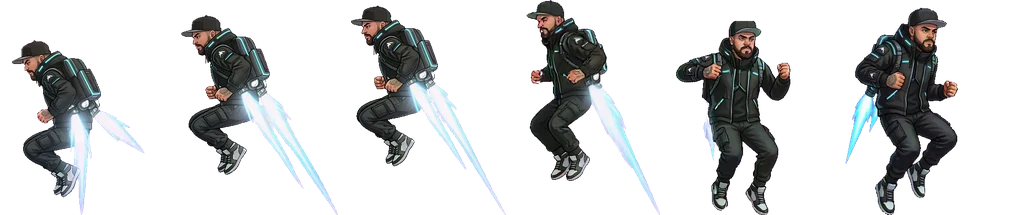
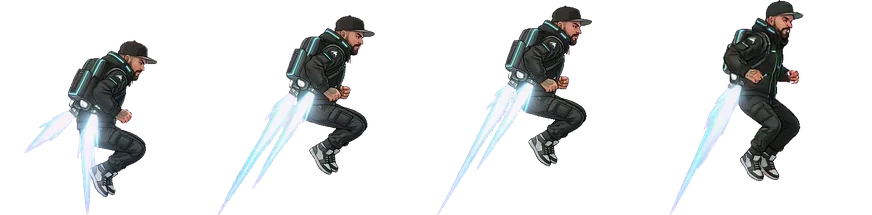
feat(hero): bring Montanha's animation and glow on par with Gle
- Fix Montanha facing backwards while jumping (jump sheet mirrored, front-facing frames dropped)
- Pick jump frames by state: rising/falling vs hovering with the jet
- Drive the run cycle by distance travelled and skip duplicated frames, so feet stop sliding
- Add a per-hero energy aura (cyan for Montanha, gold for Gle) that grows while charging or hovering
- Per-hero hover trail: cyan jet from Montanha's backpack, gold sparks from Gle's boots

Claude-Session: https://claude.ai/code/session_01GkUwF4uJAcf5BhsbBZ6wSV

diff --git a/js/render.js b/js/render.js
@@ -443,21 +443,44 @@ function heroPose(p) {
 }
 
 // Quadro da animação conforme a ação: corrida e respiração em loop, tiro acompanha o recuo.
-const ANIM_FPS = { run: 14, idle: 8, jump: 10 };
+const ANIM_FPS = { idle: 8, air: 10, hover: 16 };
 const SHOOT_FIRST = 2;
+// A corrida avança pela distância percorrida (p.anim), não pelo relógio: os pés não deslizam no chão
+// e a passada acelera junto com o herói.
+const RUN_STEP = 1.15;
+const all = n => Array.from({ length: n }, (_, i) => i);
 function animFrame(a, pose, p) {
   // O tiro nasce com o braço esticado: pula os quadros de preparação (0 e 1) e mostra só a parte do disparo.
   if (pose === 'shoot') return SHOOT_FIRST + Math.min(a.frames - SHOOT_FIRST - 1, Math.floor(((14 - p.shootAnim) / 14) * (a.frames - SHOOT_FIRST)));
-  return Math.floor((world.frame * ANIM_FPS[pose]) / 60) % a.frames;
+  const pick = HEROES[p.hero].frames;
+  if (pose === 'run') { const seq = pick.run || all(a.frames); return seq[Math.floor(p.anim * RUN_STEP) % seq.length]; }
+  if (pose === 'jump') {
+    const mode = p.hovering ? 'hover' : 'air', seq = pick[mode] || all(a.frames);
+    return seq[Math.floor((world.frame * ANIM_FPS[mode]) / 60) % seq.length];
+  }
+  return Math.floor((world.frame * ANIM_FPS.idle) / 60) % a.frames;
+}
+
+// Aura de energia do herói: um contorno suave na cor dele, que pulsa e cresce ao carregar o tiro ou voar.
+function auraFor(p) {
+  const hero = HEROES[p.hero], boost = (p.charge > 20 ? 0.35 : 0) + (p.hovering ? 0.2 : 0);
+  return { color: hero.glow, alpha: Math.min(1, hero.aura * (0.75 + 0.25 * Math.sin(world.frame * 0.08)) + boost) };
 }
 
 // Folha de animação: desenha um quadro com a âncora (centro dos pés) no ponto (cx, bottom).
-function drawAnim(ctx, a, frame, cx, bottom, flip) {
+function drawAnim(ctx, a, frame, cx, bottom, flip, aura) {
   const k = HERO_HEIGHT / (a.ay * 0.97), w = a.w * k, h = a.h * k;
   ctx.save();
   ctx.imageSmoothingEnabled = true;
   ctx.translate(cx, bottom);
   if (flip) ctx.scale(-1, 1);
+  if (aura) {
+    // shadowBlur é em pixels reais: acompanha a escala atual (tela x zoom da câmera).
+    ctx.shadowColor = aura.color; ctx.shadowBlur = 2.6 * Math.abs(ctx.getTransform().a);
+    ctx.globalAlpha = aura.alpha;
+    ctx.drawImage(a.img, frame * a.w, 0, a.w, a.h, -a.ax * k, -a.ay * k, w, h);
+    ctx.shadowBlur = 0; ctx.shadowColor = 'transparent'; ctx.globalAlpha = 1;
+  }
   ctx.drawImage(a.img, frame * a.w, 0, a.w, a.h, -a.ax * k, -a.ay * k, w, h);
   ctx.restore();
 }
@@ -471,7 +494,7 @@ function drawHeroArt(ctx, p, img) {
 
 function drawHero(ctx, p) {
   const prefix = HEROES[p.hero].art, pose = heroPose(p), a = anim(`${prefix}_${pose}`);
-  if (a) { drawAnim(ctx, a, animFrame(a, pose, p), sx(p.x + p.w / 2), p.y + p.h + 1, p.face < 0); return true; }
+  if (a) { drawAnim(ctx, a, animFrame(a, pose, p), sx(p.x + p.w / 2), p.y + p.h + 1, p.face < 0, auraFor(p)); return true; }
   const img = art(`${prefix}_${pose}`);
   if (img) { drawHeroArt(ctx, p, img); return true; }
   return false;

diff --git a/js/config.js b/js/config.js
@@ -44,8 +44,14 @@ export const CHUNKS = {
 // Personagens jogáveis: a fase decide quem joga (fase 1 Montanha; fases 2 e 3 Gle).
 export const HEROES = {
   // muzzle: onde o relógio/manopla fica na arte de tiro (altura = fração do corpo; reach = px à frente do centro)
-  montanha: { art: 'hero', portrait: 'hero', shot: '#3df0ff', boost: 'JET', bot: 'byte', muzzle: { h: 0.79, reach: 15 } },
-  gle: { art: 'gle', portrait: 'gleyce', shot: '#ffd23d', boost: 'BOTAS', bot: 'byte_pink', muzzle: { h: 0.75, reach: 11 } },
+  // glow: aura de energia em volta do desenho (cada um com sua cor). trail: rastro do JET/botas e de onde ele sai.
+  // frames: quais quadros de cada folha usar (corrida sem quadros repetidos; pulo separado em "no ar" e "voando").
+  montanha: { art: 'hero', portrait: 'hero', shot: '#3df0ff', boost: 'JET', bot: 'byte', muzzle: { h: 0.79, reach: 15 },
+    glow: '#3df0ff', aura: 1, trail: { colors: ['#3df0ff', '#bff9ff'], from: 'back' },
+    frames: { run: [0, 1, 2, 4, 5, 6, 8, 9], air: [0], hover: [1, 2, 3] } },
+  gle: { art: 'gle', portrait: 'gleyce', shot: '#ffd23d', boost: 'BOTAS', bot: 'byte_pink', muzzle: { h: 0.75, reach: 11 },
+    glow: '#ffd23d', aura: 0.55, trail: { colors: ['#ffd23d', '#ff9de6'], from: 'feet' },
+    frames: {} },
 };
 
 export const STAGES = [

diff --git a/js/player.js b/js/player.js
@@ -1,4 +1,4 @@
-// Montanha: movimento estilo Mega Man, JET da mochila, tiro do relógio (normal e carregado), dano.
+// Herói jogável (Montanha ou Gle): movimento estilo Mega Man, JET da mochila, tiro do relógio (normal e carregado), dano.
 import { PHYS, PLAYER, T, H, HEROES, HERO_HEIGHT, maxHpFor, shotDamage } from './config.js';
 import { aimTarget } from './combat.js';
 import { save, emit } from './core.js';
@@ -47,7 +47,12 @@ function jumpAndJet(p) {
   if (p.hovering) {
     p.vy = Math.max(p.vy - PHYS.jet, PHYS.jetMax);
     p.fuel--;
-    if (world.frame % 3 === 0) exhaust(p.x + (p.face > 0 ? 1 : 8), p.y + 14);
+    // JET sai da mochila (atrás, na altura das costas); as botas da Gle soltam faísca dos pés.
+    const trail = HEROES[p.hero].trail, back = trail.from === 'back';
+    if (world.frame % (back ? 2 : 3) === 0) {
+      const x = back ? p.x + p.w / 2 - p.face * 7 : p.x + p.w / 2 + (Math.random() - 0.5) * 6;
+      exhaust(x, back ? p.y + 6 : p.y + p.h, trail.colors, back ? -p.face * 0.5 : 0);
+    }
   }
 }
 

diff --git a/js/fx.js b/js/fx.js
@@ -9,8 +9,9 @@ export function burst(x, y, color, count = 12, speed = 2.2) {
 }
 export const spark = (x, y, color) => burst(x, y, color, 4, 1.2);
 
-export function exhaust(x, y) {
-  world.fx.push({ x, y, vx: (Math.random() - 0.5) * 0.4, vy: 1 + Math.random(), life: 14, color: Math.random() < 0.5 ? '#ffd23d' : '#ff7a3d', size: 2 });
+// Rastro do voo: cada herói com suas cores (JET ciano do Montanha, botas douradas da Gle).
+export function exhaust(x, y, colors = ['#ffd23d', '#ff7a3d'], vx = 0) {
+  world.fx.push({ x, y, vx: vx + (Math.random() - 0.5) * 0.4, vy: 1 + Math.random(), life: 14, color: colors[Math.random() < 0.5 ? 0 : 1], size: 2 });
 }
 
 const HEART_COLORS = ['#ff4f9a', '#ff6b8a', '#ff3b7a'];
